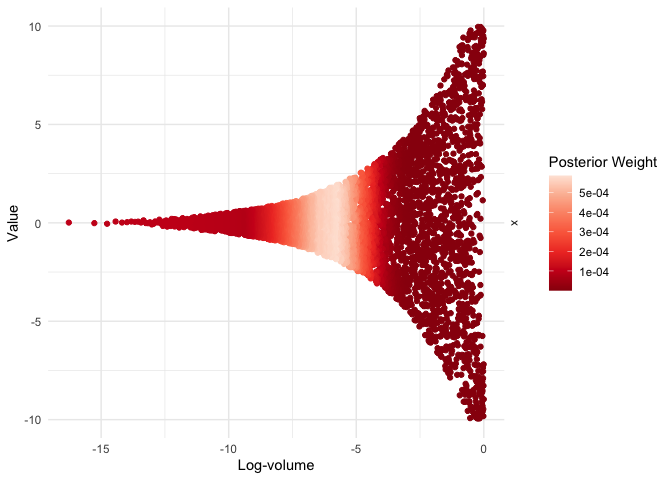
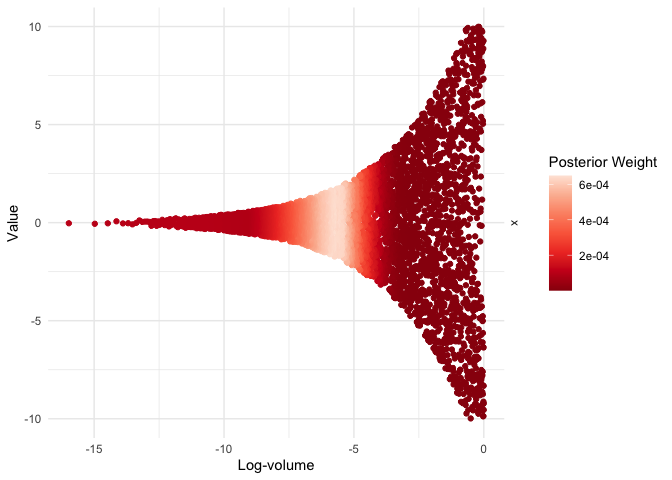
CRAN resubmission (#42).

diff --git a/README.md b/README.md
@@ -128,20 +128,20 @@ summary(run)
 #> Summary of nested sampling run:
 #> ── Run Information ─────────────────────────────────────────────────────────────
 #> * No. points: 500
-#> * Iterations: 4737
-#> * Likelihood evals.: 103830
-#> * Log-evidence: -9.1368 (± 0.115)
-#> * Information: 4.822
+#> * Iterations: 4591
+#> * Likelihood evals.: 100701
+#> * Log-evidence: -8.8458 (± 0.1134)
+#> * Information: 4.715
 #> ── Posterior Summary ───────────────────────────────────────────────────────────
 #> # A tibble: 3 × 6
-#>   variable   mean    sd    median   q15   q85
-#>   <chr>     <dbl> <dbl>     <dbl> <dbl> <dbl>
-#> 1 x        0.0233  2.76 -0.000841 -1.96  2.02
-#> 2 y        0.0254  2.78 -0.000344 -1.90  1.96
-#> 3 z        0.0110  2.79 -0.00460  -1.89  1.92
+#>   variable    mean    sd   median   q15   q85
+#>   <chr>      <dbl> <dbl>    <dbl> <dbl> <dbl>
+#> 1 x        -0.0368  2.78 -0.00244 -2.01  1.88
+#> 2 y         0.0551  2.77  0.00902 -1.90  1.96
+#> 3 z         0.0451  2.79  0.0103  -1.84  1.92
 #> ── Maximum Likelihood Estimate (MLE) ───────────────────────────────────────────
-#> * Log-likelihood: -2.6829
-#> * Original parameters: 0.0149, 0.0188, and -0.0715
+#> * Log-likelihood: -2.6848
+#> * Original parameters: -0.0316, -0.0908, and -0.0134
 plot(run, which = "evidence")
 ```
 

diff --git a/cran-comments.md b/cran-comments.md
@@ -1,14 +1,3 @@
-This is a re-submission. In this version, I have:
-
-* Added citations to the DESCRIPTION field.
-* Replaced commented-out code in the documentation of `compile.R` with a 
-`\donttest` block.
-* Replaced a non-necessary `dontrun` block in `generate.R` with a `donttest`
-block.
-* Added Michael C. Hughes to the Authors@R field with the `cph` role.
-
 ## R CMD check results
 
-0 errors | 0 warnings | 1 note
-
-* This is a new release.
+0 errors | 0 warnings | 0 note

diff --git a/NEWS.md b/NEWS.md
@@ -1,10 +1,12 @@
-# ernest 1.2.4
+# ernest 1.2.5 (2026-06-03)
 
-# ernest 1.2.3
+* Minor bug fixes addressing failed CRAN checks (memory access, link-time optimization).
 
-# ernest 1.2.2
+# ernest 1.2.4 (2026-06-02)
+
+* Initial CRAN acceptance.
+
 
 # ernest 1.2.1 (2026-06-09)
-=========================
 
 * Initial transfer to the rOpenSci repository. 
